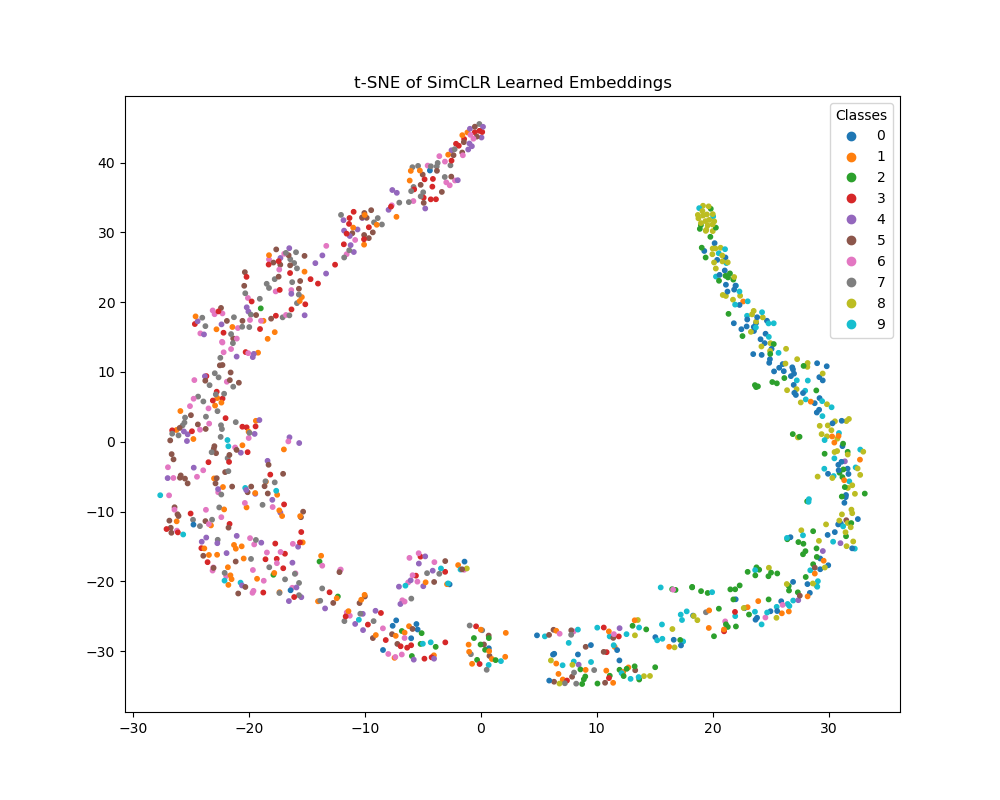
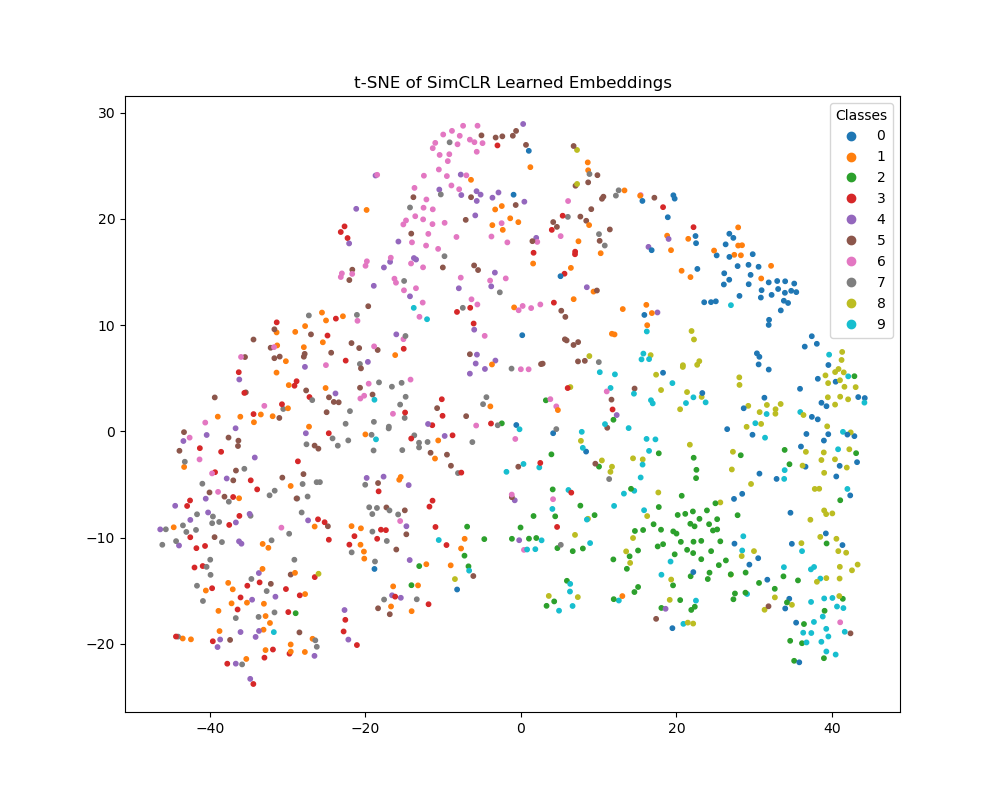
Refactor dataset handling and add linear evaluation script

diff --git a/evaluate.py b/evaluate.py
@@ -1,56 +1,3 @@
-# from sklearn.manifold import TSNE
-# import matplotlib.pyplot as plt
-# import torch
-# from dataset import get_dataloaders
-# from model import SimCLRModel
-# from config import config
-# import numpy as np
-
-# def plot_embeddings(embeddings, labels):
-#     tsne = TSNE(n_components=2)
-#     reduced = tsne.fit_transform(embeddings)
-#     plt.figure(figsize=(8, 6))
-#     scatter = plt.scatter(reduced[:, 0], reduced[:, 1], c=labels, cmap='tab10', s=10)
-#     plt.legend(*scatter.legend_elements(), title="Classes")
-#     plt.title("t-SNE of Learned Embeddings")
-#     plt.savefig("tsne_embeddings.png")
-
-# if __name__ == "__main__":
-#     # Load the model
-#     model = SimCLRModel(config["model_name"], config["projection_dim"])
-#     model.load_state_dict(torch.load("simclr_epoch10.pth"))
-#     model.eval()
-
-#     # Load the dataset
-#     dataloader = get_dataloaders(config)
-
-#     embeddings = []
-#     labels = []
-    
-#     # Check for mac gpu
-#     if torch.backends.mps.is_available():
-#         device = torch.device("mps")
-#     elif torch.cuda.is_available():
-#         device = torch.device("cuda")
-#     else:
-#         device = torch.device("cpu")
-#     print(f"Evaluating on {device}")
-#     model.to(device)
-    
-#     for (x1, x2), label in dataloader:
-#         x1, x2 = x1.to(device), x2.to(device)
-#         with torch.no_grad():
-#             z1, z2 = model(x1), model(x2)
-        
-#         # Use the first view for embeddings
-#         embeddings.append(z1.cpu().numpy())
-#         labels.append(label.numpy())
-    
-#     embeddings = np.concatenate(embeddings, axis=0)
-#     labels = np.concatenate(labels, axis=0)
-#     plot_embeddings(embeddings, labels)
-#     print("t-SNE plot saved as tsne_embeddings.png")
-
 import torch
 from torch.utils.data import Subset, DataLoader
 from torchvision.datasets import STL10
@@ -91,7 +38,7 @@ def extract_embeddings(model, dataloader, device):
 
     return torch.cat(embeddings).numpy(), torch.cat(labels).numpy()
 
-def plot_tsne(embeddings, labels, save_path="tsne_plot.png"):
+def plot_tsne(embeddings, labels, save_path="tsne_plot.png", show_plot=False):
     tsne = TSNE(n_components=2, random_state=42)
     reduced = tsne.fit_transform(embeddings)
 
@@ -100,14 +47,17 @@ def plot_tsne(embeddings, labels, save_path="tsne_plot.png"):
     plt.legend(*scatter.legend_elements(), title="Classes", loc="best")
     plt.title("t-SNE of SimCLR Learned Embeddings")
     plt.savefig(save_path)
-    plt.show()
+    if show_plot:
+        plt.show()
+    else:
+        plt.close()
 
 def main():
     device = get_device()
     print(f"Evaluating on device: {device}")
 
     model = SimCLRModel(config["model_name"], config["projection_dim"])
-    model.load_state_dict(torch.load("simclr_epoch10.pth", map_location=device))
+    model.load_state_dict(torch.load("simclr_epoch7.pth", map_location=device))
     model.to(device)
 
     dataloader = get_eval_dataloader()

diff --git a/linear_eval.py b/linear_eval.py
@@ -1,0 +1,61 @@
+import torch
+from torch.utils.data import DataLoader, Subset
+from torchvision.datasets import STL10
+import torchvision.transforms as T
+from model import SimCLRModel
+from config import config
+from sklearn.linear_model import LogisticRegression
+from sklearn.metrics import accuracy_score
+import numpy as np
+
+def get_device():
+    return torch.device("mps" if torch.backends.mps.is_available() else "cpu")
+
+def get_dataloader(split):
+    transform = T.Compose([
+        T.Resize((config["image_size"], config["image_size"])),
+        T.ToTensor()
+    ])
+    dataset = STL10(root="./data", split=split, transform=transform, download=True)
+    return DataLoader(dataset, batch_size=64, shuffle=False, num_workers=0)
+
+def extract_embeddings(model, dataloader, device):
+    model.eval()
+    embeddings = []
+    labels = []
+    with torch.no_grad():
+        for x, y in dataloader:
+            x = x.to(device)
+            z = model.encoder(x)
+            embeddings.append(z.cpu())
+            labels.append(y)
+    return torch.cat(embeddings).numpy(), torch.cat(labels).numpy()
+
+def main():
+    device = get_device()
+    print(f"Running linear evaluation on: {device}")
+
+    model = SimCLRModel(config["model_name"], config["projection_dim"])
+    model.load_state_dict(torch.load("simclr_epoch7.pth", map_location=device))
+    model.to(device)
+
+    # Get training data (supervised labels)
+    train_loader = get_dataloader(split="train")
+    X_train, y_train = extract_embeddings(model, train_loader, device)
+
+    # Get test data
+    test_loader = get_dataloader(split="test")
+    X_test, y_test = extract_embeddings(model, test_loader, device)
+
+    # Train linear classifier
+    clf = LogisticRegression(max_iter=1000)
+    clf.fit(X_train, y_train)
+
+    # Predict and evaluate
+    y_pred = clf.predict(X_test)
+    acc = accuracy_score(y_test, y_pred)
+    print(f"Linear evaluation accuracy: {acc * 100:.2f}%")
+
+if __name__ == "__main__":
+    main()
+

diff --git a/dataset.py b/dataset.py
@@ -32,7 +32,7 @@ def get_dataloaders(config):
 
     # STL-10 split = 'unlabeled' for contrastive training
     dataset = SimCLRDataset(split='unlabeled', transform=augment)
-    dataset = Subset(dataset, range(5000))  # Use only first 5k images for CPU training
+    # dataset = Subset(dataset, range(5000))
 
     dataloader = DataLoader(dataset, batch_size=config["batch_size"],
                             shuffle=True, num_workers=0)
